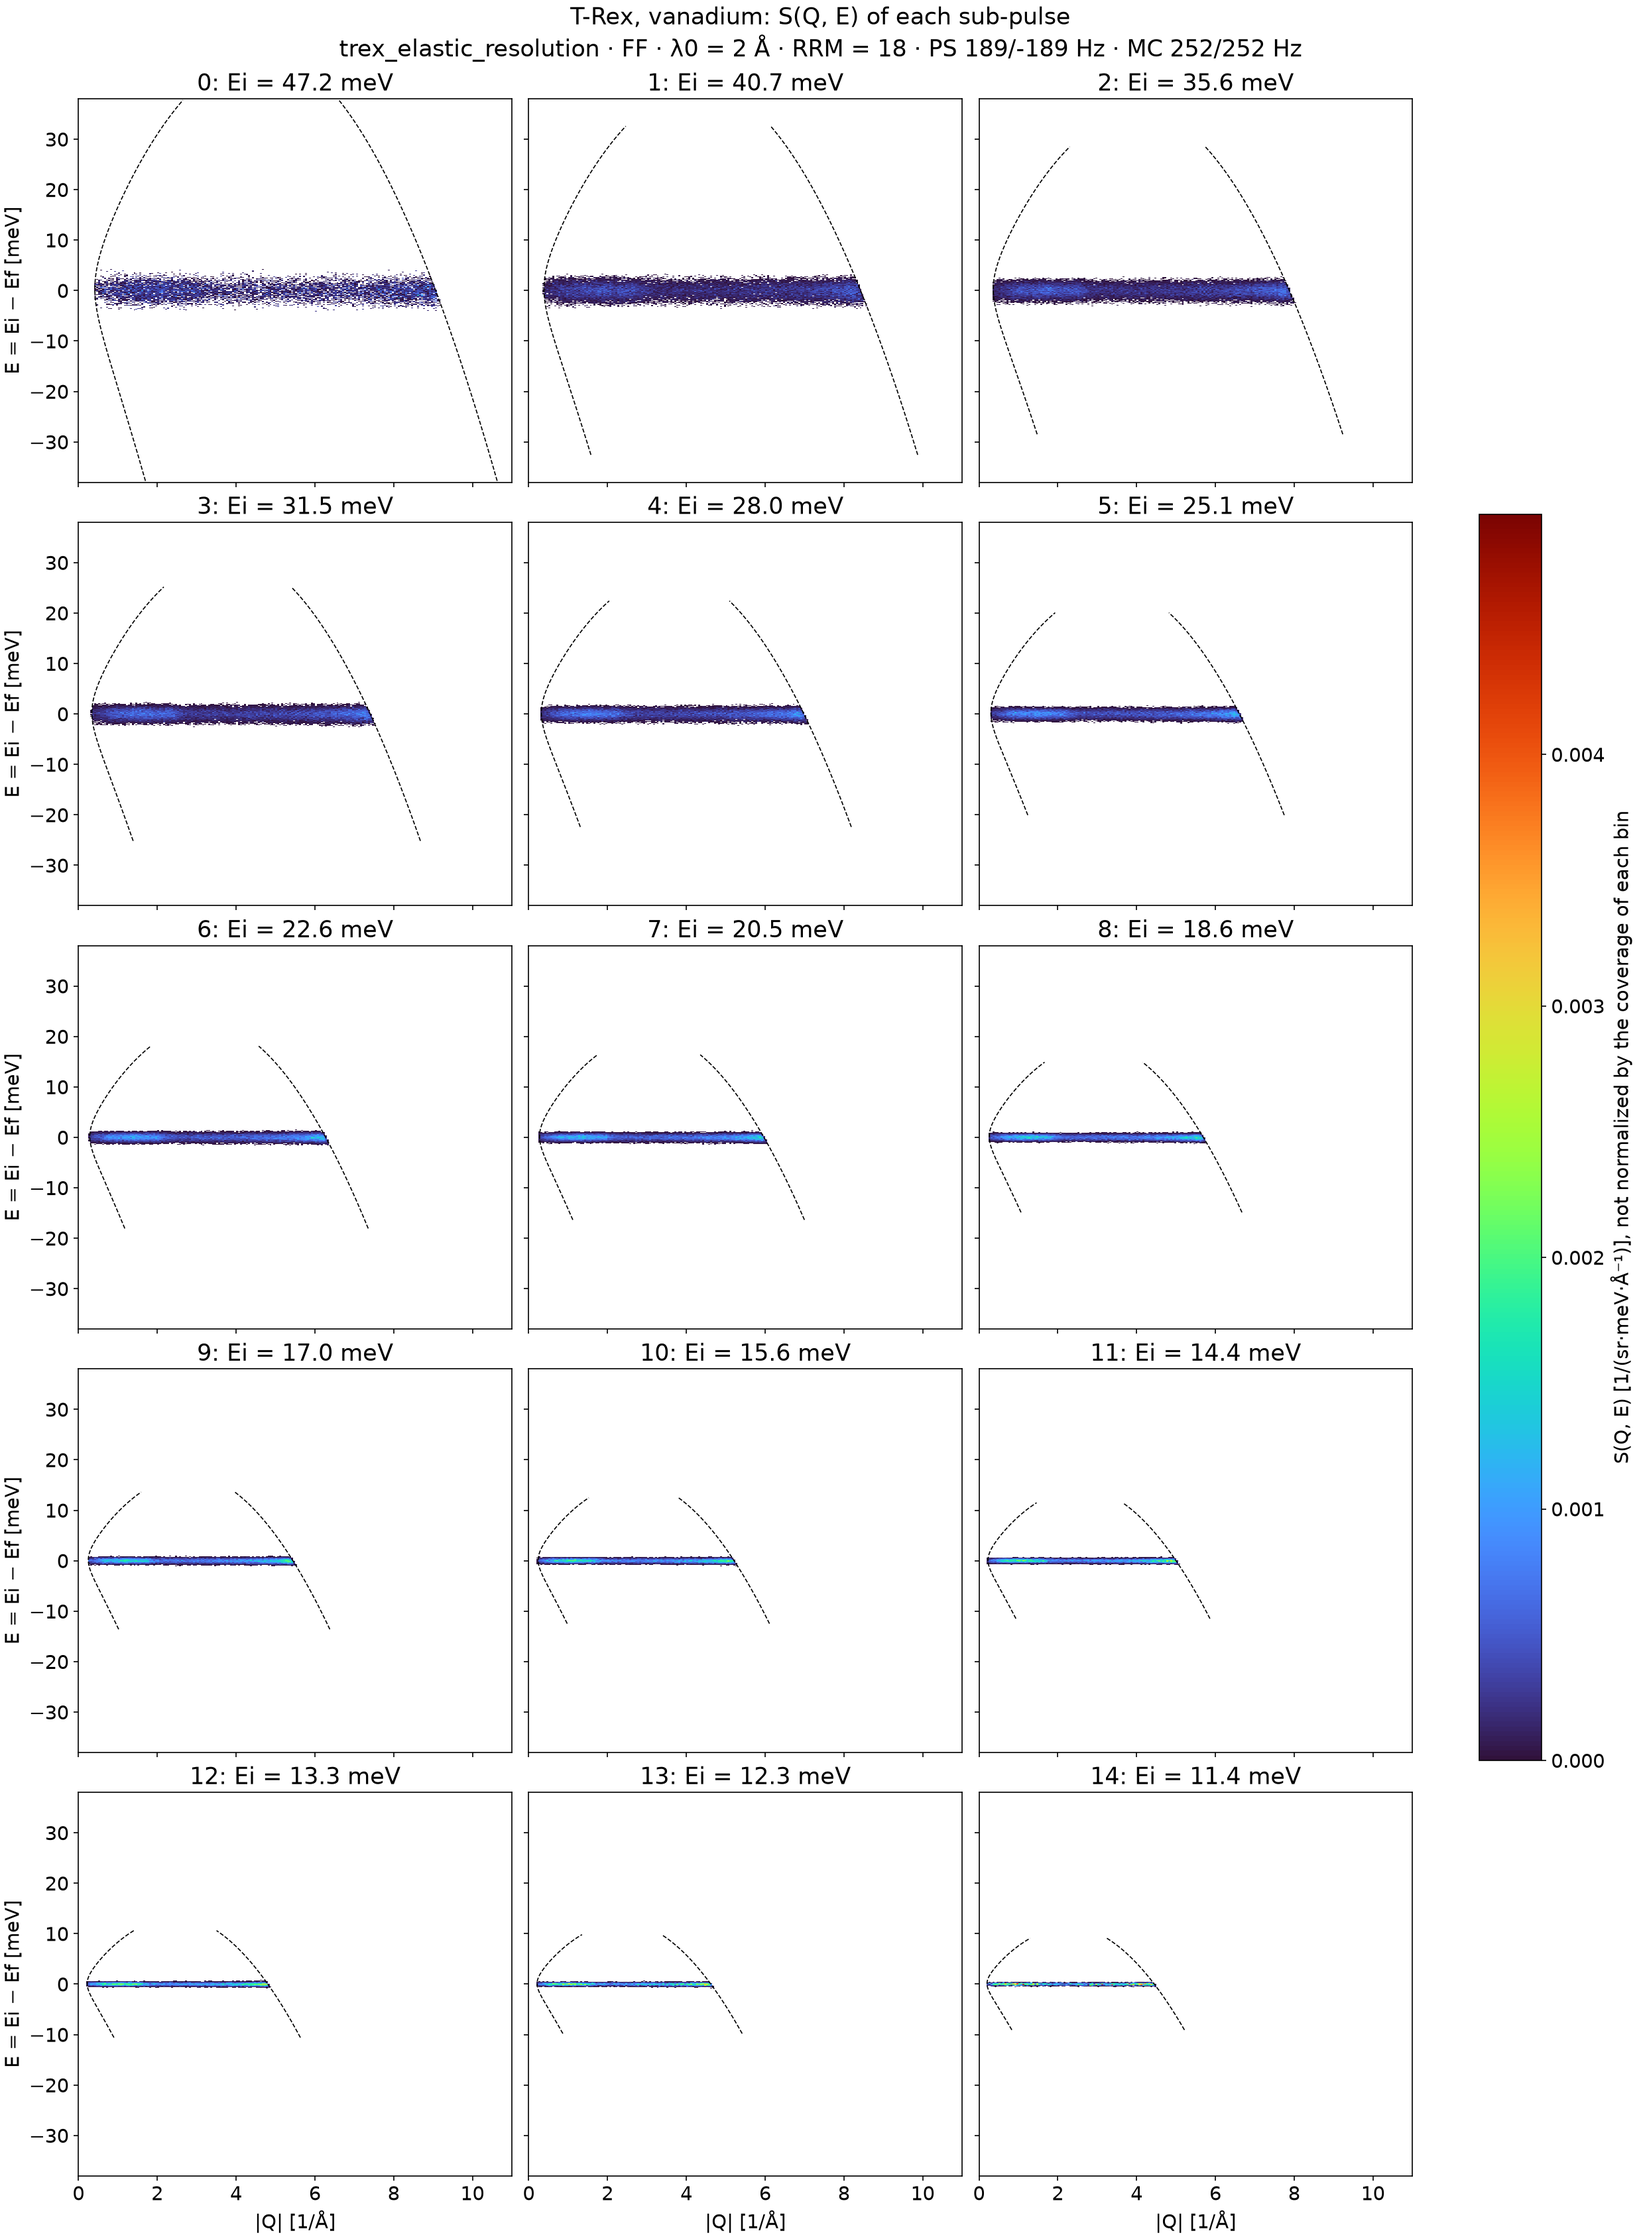
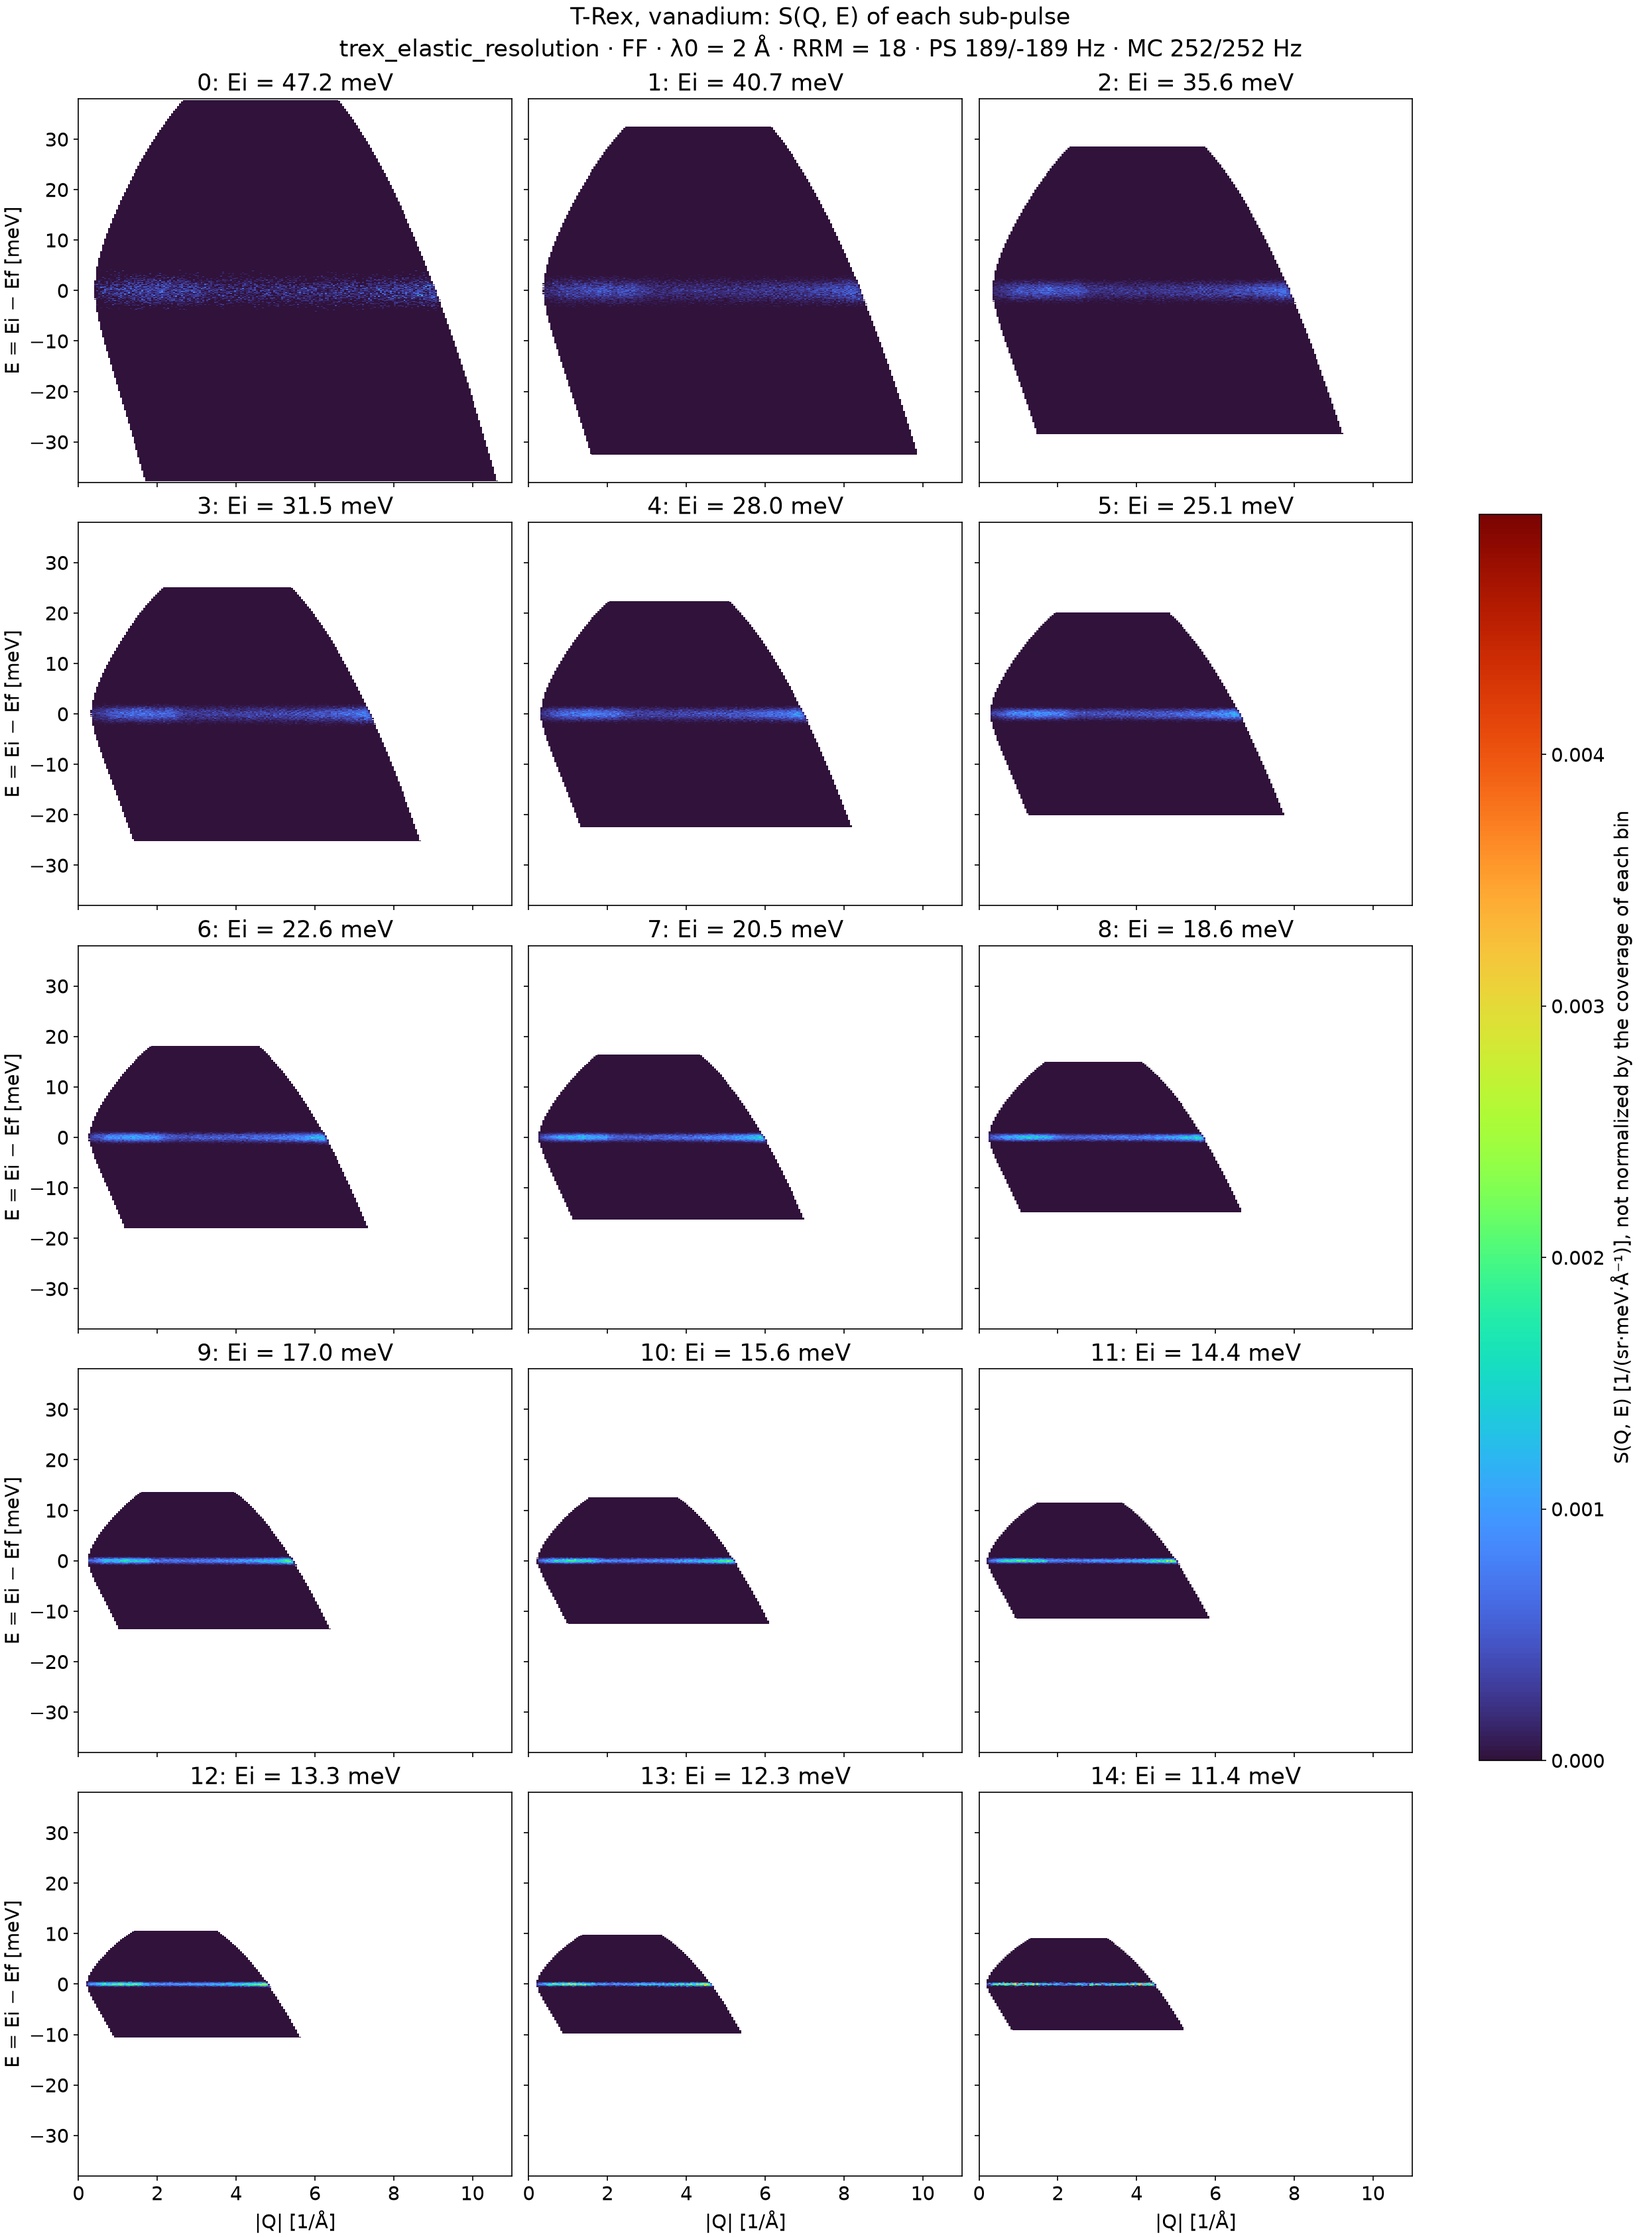
Color the bins each sub-pulse of vanadium reaches in S(Q,E), white only outside its coverage

diff --git a/src/mcdgs/diagnostics/trex/elastic_resolution_incoherent.py b/src/mcdgs/diagnostics/trex/elastic_resolution_incoherent.py
@@ -522,6 +522,52 @@ def q_e_maps(
     return maps
 
 
+def coverage(
+    incident_energy: float,
+    energy_transfer: np.ndarray,
+    q: np.ndarray,
+    two_theta_limits: tuple[float, float],
+    window: tuple[float, float] = DEFAULT_ENERGY_TRANSFER_RATIO,
+) -> np.ndarray:
+    """Return which points of (E, |Q|) a sub-pulse can reach on the detector.
+
+    A point is reached if its E lies in the arrival window, ``window`` times Ei, and its |Q|
+    between those of the smallest and the largest 2θ at that E, from :func:`momentum_transfer`.
+
+    Parameters
+    ----------
+    incident_energy:
+        Ei, in meV.
+    energy_transfer, q:
+        The E of each row and the |Q| of each column, in meV and 1/Å.
+    two_theta_limits:
+        The smallest and the largest 2θ of the pixels, in deg.
+    window:
+        The smallest and the largest ``E / Ei`` of the arrival windows, as
+        :func:`.arrival_window`.
+
+    Returns
+    -------
+    :
+        True where the point is reached, along E and |Q|.
+
+    Examples
+    --------
+    Elastic, 20 meV reach |Q| from 0.27 to 5.9 1/Å between 5° and 144°; 30 meV of energy loss
+    is beyond the window:
+
+    >>> covered = coverage(20.0, np.array([0.0, 30.0]), np.array([0.1, 3.0, 6.0]), (5.0, 144.0))
+    >>> covered.tolist()
+    [[False, True, False], [False, False, False]]
+    """
+    inside = (energy_transfer >= window[0] * incident_energy) & (
+        energy_transfer <= window[1] * incident_energy
+    )
+    reachable = np.where(inside, energy_transfer, 0.0)  # kf is real only inside the window
+    low, high = (momentum_transfer(incident_energy, reachable, t) for t in two_theta_limits)
+    return inside[:, None] & (q[None, :] >= low[:, None]) & (q[None, :] <= high[:, None])
+
+
 def plot_q_e_maps(
     maps: sc.DataArray,
     two_theta_limits: tuple[float, float],
@@ -532,10 +578,10 @@ def plot_q_e_maps(
     """Draw the S(Q,E) map of every sub-pulse, |Q| across and E up, from the highest Ei.
 
     Every map spans the same range of |Q| and E, that of the bins of :func:`q_e_maps`, and they
-    share one linear color scale, turbo, from 0 to the highest bin of all, with the empty bins
-    in white. The dashed lines are the |Q| of the smallest and the largest 2θ of the detector at
-    each E of the arrival window of the sub-pulse, ``window`` times its Ei: the detector reaches
-    the bins between them only.
+    share one linear color scale, turbo, from 0 to the highest bin of all. A bin the sub-pulse
+    reaches, as :func:`coverage` finds, has the color of its value, the bottom of the scale if
+    it is empty; a bin it cannot reach is white. So the colored area of each map is its coverage:
+    its arrival window, ``window`` times its Ei, between the smallest and the largest 2θ.
 
     Parameters
     ----------
@@ -559,6 +605,8 @@ def plot_q_e_maps(
     maps = maps.transpose(["subpulse", "energy_transfer", "Q"])
     q = maps.coords["Q"].to(unit="1/Å").values
     energy = maps.coords["energy_transfer"].to(unit="meV").values
+    q_centers = (q[:-1] + q[1:]) / 2
+    energy_centers = (energy[:-1] + energy[1:]) / 2
     energies = maps.coords["incident_energy"].to(unit="meV").values
     order = np.argsort(-energies)  # the highest Ei first
     rows = -(-order.size // columns)
@@ -581,14 +629,16 @@ def plot_q_e_maps(
             mesh = ax.pcolormesh(
                 q,
                 energy,
-                np.ma.masked_less_equal(maps.values[i], 0),  # empty bins in white
+                # white only where the sub-pulse cannot reach; there, any neutron is still shown
+                np.ma.masked_where(
+                    ~coverage(ei, energy_centers, q_centers, two_theta_limits, window)
+                    & (maps.values[i] <= 0),
+                    maps.values[i],
+                ),
                 cmap=cmap,
                 vmin=0.0,
                 vmax=top,
             )
-            own = np.linspace(window[0] * ei, window[1] * ei, 400)
-            for two_theta in two_theta_limits:
-                ax.plot(momentum_transfer(ei, own, two_theta), own, "k--", lw=0.8)
             ax.set(
                 xlim=(q[0], q[-1]), ylim=(energy[0], energy[-1]), title=f"{i}: Ei = {ei:.1f} meV"
             )

diff --git a/docs/instruments/trex/elastic-resolution-incoherent.md b/docs/instruments/trex/elastic-resolution-incoherent.md
@@ -121,24 +121,28 @@ sub-pulse and its time at the sample agree with what the detector sees.
 
 ## S(Q, E)
 
-![The S(Q, E) map of each of the 15 sub-pulses, |Q| across and E up, from the highest Ei to the lowest, with the limits of the detector](figures/elastic-resolution-incoherent/trex_elastic_resolution_incoherent_sqe.png)
+![The S(Q, E) map of each of the 15 sub-pulses, |Q| across and E up, from the highest Ei to the lowest, colored where the detector reaches and white elsewhere](figures/elastic-resolution-incoherent/trex_elastic_resolution_incoherent_sqe.png)
 
 `q_e_maps` histograms the neutrons of each sub-pulse in |Q| and E, in bins of 0.05 meV and
 0.05 Å⁻¹. Every sub-pulse has the same bins, so every map spans the same range: E from −38 to
 38 meV, the arrival window of the highest Ei, and |Q| from 0 to 11 Å⁻¹, the largest the
 detector reaches. `plot_q_e_maps` draws the 15 maps from the highest Ei to the lowest, on shared
-axes and one linear scale in turbo, with the empty bins in white. The intensity is that of the
-spectra per bin of |Q| as well, so a map summed over |Q| gives back the spectrum of its
-sub-pulse. It is averaged over the solid angle of the whole detector, not normalized by the
-coverage of each bin: that is the normalization still to come on the way to S(Q, E).
+axes and one linear scale in turbo. The intensity is that of the spectra per bin of |Q| as
+well, so a map summed over |Q| gives back the spectrum of its sub-pulse. It is averaged over the
+solid angle of the whole detector, not normalized by the coverage of each bin: that is the
+normalization still to come on the way to S(Q, E).
 
-The dashed lines are the |Q| of the smallest and the largest 2θ of the pixels, 5° and 143.7°, at
-each E of the arrival window of the sub-pulse. The detector reaches only the bins between them,
-and the lower the Ei, the smaller the part of the common range it covers.
+**Colored is reached, white is not.** `coverage` finds the bins each sub-pulse can reach: E in
+its arrival window, −0.8 Ei to 0.8 Ei, and |Q| between those of the smallest and the largest 2θ
+of the pixels, 5° and 143.7°, at that E. A bin it reaches has the color of its value, the
+bottom of the scale if it holds no neutron; a bin it cannot reach is white. So the colored area
+of each map is its coverage, and the lower the Ei, the smaller the part of the common range it
+covers: ±9 meV and |Q| below 5.2 Å⁻¹ at 11.4 meV.
 
 - **Only the elastic line.** Each map holds one band at E = 0, as wide as the resolution of its
   sub-pulse, from the smallest |Q| to the largest the detector reaches. The rest of the
-  coverage is empty: vanadium scatters nothing inelastically here.
+  coverage is dark, reached but empty: vanadium scatters nothing inelastically here, and the
+  sample scatters only once.
 - **The band is brighter at low |Q|.** At 2θ below 36°, the detector covers both sides of the
   beam, −36° to −5° as well as 5° to 36°, so twice as many pixels fall in each bin of |Q|. The
   step lies at 2 ki sin 18°, from 2.9 Å⁻¹ at 47.2 meV to 1.4 Å⁻¹ at 11.4 meV. Normalizing each bin
